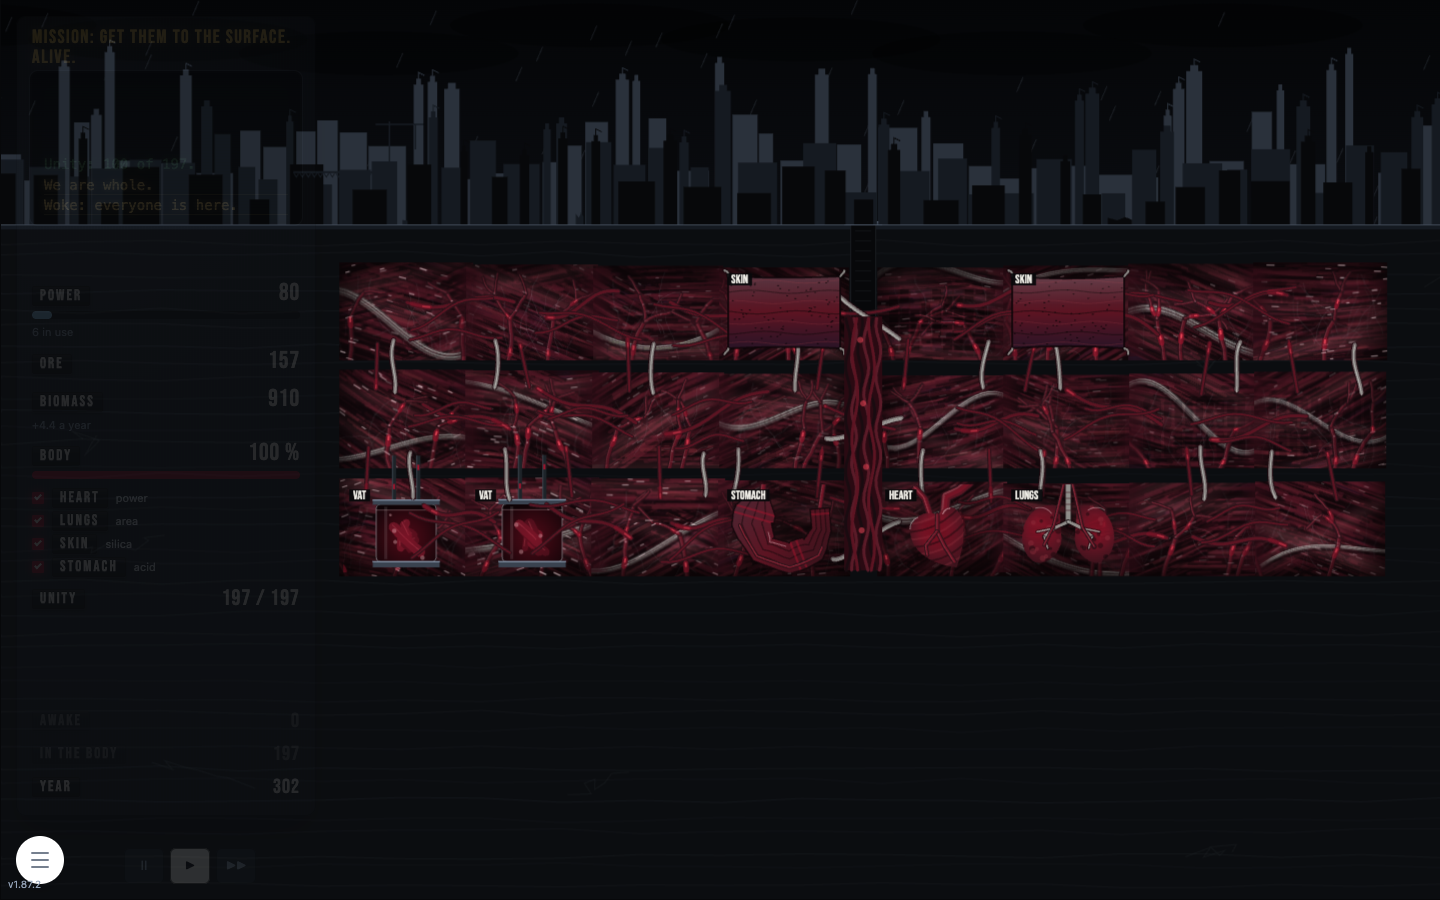
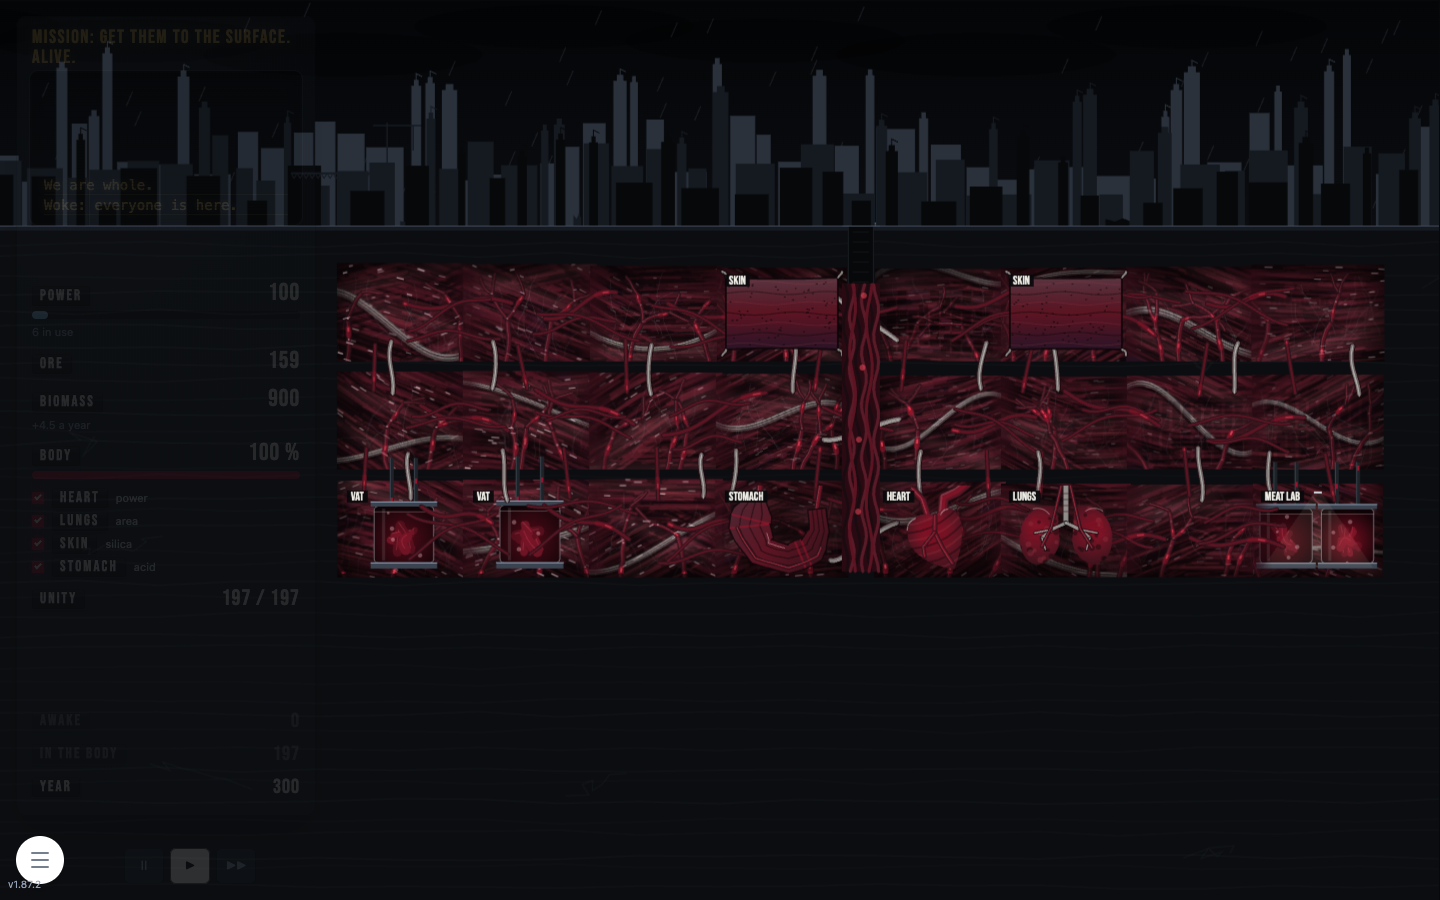
v1.87.3: chapter IV, the vault: the burst
The rise's burst is a mass: a dome of the rooms' muscle fibre and vessels pushing out and swelling to fill the sky, folds, wet highlights, branching whipping vessels with the pulse, the heartbeat ring, crust and towers riding and sliding off, dust (made once per rise). iv-vault-night has a Meat Lab (level 1); iv-vault-flesh keeps it.

diff --git a/src/phase4v/view.js b/src/phase4v/view.js
@@ -1694,6 +1694,118 @@ export function createVaultView(canvas, opts = {}) {
         }
     }
 
+    // ---------------------------------------------------------------- the burst (v1.87.3)
+    /**
+     * What the burst is made of, made once when the rise starts: a big tissue (the rooms' fibre and
+     * vessels, scaled up), branching vessel trees from the root outwards, the slabs and tower pieces that
+     * ride on it, the dust. Per frame only transforms, clips and the moving pulse.
+     */
+    let burstKit = null;
+    function makeBurst() {
+        const tw = 260, th = 150;
+        const tissue = makeTissue(tw, th, 91.7, 'lrud');
+        const R = rng(7.7);
+        const trees = [];
+        // branching vessels from the root, outward and up, in unit space (radius 1)
+        function grow(x, y, a, len, wid, depth, out) {
+            const pts = [[x, y]];
+            let px = x, py = y;
+            for (let st = 0; st < 5; st++) { a += (R() - 0.5) * 0.5; px += Math.cos(a) * len / 5; py += Math.sin(a) * len / 5; pts.push([px, py]); }
+            out.push({ pts, wid, phase: R() * 6, delay: R() });
+            if (depth > 0) for (let b = 0; b < 2; b++) grow(px, py, a + (b ? 1 : -1) * (0.35 + R() * 0.4), len * 0.62, wid * 0.62, depth - 1, out);
+        }
+        for (let v = 0; v < 7; v++) grow(0, 0, -Math.PI + (v + 0.5) * Math.PI / 7 + (R() - 0.5) * 0.2, 0.55, 9, 3, trees);
+        const riders = [];
+        for (let q = 0; q < 14; q++) riders.push({ a: -Math.PI / 2 + (R() - 0.5) * 1.6, slab: q % 3 !== 0, w: 10 + R() * 26, h: q % 3 === 0 ? 24 + R() * 40 : 6 + R() * 8, spin: (R() - 0.5) * 2, slide: 0.4 + R() * 0.8 });
+        const dust = [];
+        for (let q = 0; q < 40; q++) dust.push({ a: -Math.PI + R() * Math.PI, sp: 0.3 + R() * 0.9, r: 6 + R() * 22 });
+        return { tissue, trees, riders, dust };
+    }
+    /** m 0..1: the mass from first breaking the crust to filling the sky. */
+    function burst(s, t, m, cx, gy, hb) {
+        if (!burstKit) burstKit = makeBurst();
+        const K = burstKit;
+        // it pushes out slowly, then swells until it fills the top of the screen
+        const ease = Math.pow(m, 1.35);
+        const Rx = 50 + ease * W * 0.82 * (1 + 0.025 * hb);
+        const Ry = 30 + ease * (gy + 80) * (1 + 0.03 * hb);
+        const dome = () => { ctx.beginPath(); ctx.ellipse(cx, gy + 4, Rx, Ry, 0, Math.PI, 0); ctx.closePath(); };
+        // dust thrown up behind it
+        for (const d of K.dust) {
+            const dist = (0.6 + d.sp * m) * Rx * 0.9;
+            ctx.fillStyle = rgba(VT.mist, 0.12 * (1 - m * 0.7));
+            ctx.beginPath(); ctx.arc(cx + Math.cos(d.a) * dist, gy + Math.sin(d.a) * dist * 0.5 - m * 30, d.r * (0.6 + m), 0, Math.PI * 2); ctx.fill();
+        }
+        // the mass: layered muscle, the rooms' own tissue scaled up, inside the dome
+        ctx.save();
+        dome(); ctx.clip();
+        // tiled at the rooms' scale (a little larger), not stretched: the fibre keeps its grain
+        const tw = K.tissue.W2 * 1.35, th = K.tissue.H2 * 1.35;
+        let row = 0;
+        for (let ty = gy + 8 - th; ty > gy - Ry - th; ty -= th - 2, row++) {
+            // rows offset by half a tile, so no seam runs straight up the mass
+            for (let tx = cx - Math.ceil(Rx / tw) * tw - (row % 2) * tw / 2; tx < cx + Rx; tx += tw - 2) {
+                ctx.drawImage(K.tissue.base, tx, ty, tw, th);
+                ctx.globalAlpha = 0.55 + 0.45 * hb;
+                ctx.drawImage(K.tissue.glint, tx, ty, tw, th);
+                ctx.globalAlpha = 1;
+            }
+        }
+        // layered muscle: folds where one sheet lies over the next, following the dome
+        for (const f of [0.82, 0.6, 0.38]) {
+            ctx.strokeStyle = 'rgba(8,2,4,0.55)'; ctx.lineWidth = 6;
+            ctx.beginPath(); ctx.ellipse(cx, gy + 4, Rx * f, Ry * f, 0, Math.PI * 1.04, Math.PI * 1.96); ctx.stroke();
+            ctx.strokeStyle = 'rgba(255,170,175,0.14)'; ctx.lineWidth = 2;
+            ctx.beginPath(); ctx.ellipse(cx, gy + 1, Rx * f, Ry * f, 0, Math.PI * 1.06, Math.PI * 1.94); ctx.stroke();
+        }
+        // shading: dark at the rim, the heartbeat as a ring of light running out from the root
+        const sh = ctx.createRadialGradient(cx, gy, Ry * 0.2, cx, gy, Math.max(Rx, Ry));
+        sh.addColorStop(0, 'rgba(0,0,0,0)'); sh.addColorStop(0.8, 'rgba(10,2,5,0.35)'); sh.addColorStop(1, 'rgba(6,1,3,0.8)');
+        ctx.fillStyle = sh; ctx.fillRect(cx - Rx, gy - Ry, Rx * 2, Ry + 8);
+        const ph = (t % BEAT) / BEAT;
+        const ringR = ph * Math.max(Rx, Ry) * 1.1;
+        const ring = ctx.createRadialGradient(cx, gy, Math.max(1, ringR - 40), cx, gy, ringR + 10);
+        ring.addColorStop(0, rgba(VT.pulse, 0)); ring.addColorStop(0.7, rgba(VT.pulse, 0.35 * (1 - ph))); ring.addColorStop(1, rgba(VT.pulse, 0));
+        ctx.fillStyle = ring; ctx.fillRect(cx - Rx, gy - Ry, Rx * 2, Ry + 8);
+        // the vessels, thick and branching, whipping, red light running root to tip
+        ctx.lineCap = 'round'; ctx.lineJoin = 'round';
+        for (const v of K.trees) {
+            const whip = Math.sin(t * 2.6 + v.phase) * 0.06;
+            const P = v.pts.map(([px, py], n) => [cx + (px + whip * n * py) * Rx * 1.05, gy + 4 + (py - whip * n * px) * Ry * 1.05]);
+            const path = () => { ctx.beginPath(); P.forEach((p, n) => (n ? ctx.lineTo(p[0], p[1]) : ctx.moveTo(p[0], p[1]))); };
+            const wid = v.wid * (0.6 + 0.6 * ease);
+            path(); ctx.strokeStyle = VT.fArtery; ctx.lineWidth = wid + 3; ctx.stroke();
+            path(); ctx.strokeStyle = VT.fCore; ctx.lineWidth = wid; ctx.stroke();
+            ctx.save(); ctx.translate(-wid * 0.25, -wid * 0.3); path(); ctx.strokeStyle = 'rgba(255,170,175,0.22)'; ctx.lineWidth = Math.max(1, wid * 0.25); ctx.stroke(); ctx.restore();
+            const p = ((t / BEAT) + v.delay * 0.4) % 1;
+            const f = p * (P.length - 1), i0 = Math.floor(f), u = f - i0, a = P[i0], b = P[Math.min(P.length - 1, i0 + 1)];
+            ctx.fillStyle = `rgba(255,74,92,${0.55 + 0.45 * hb})`;
+            ctx.beginPath(); ctx.arc(a[0] + (b[0] - a[0]) * u, a[1] + (b[1] - a[1]) * u, wid * 0.7, 0, Math.PI * 2); ctx.fill();
+        }
+        // wet highlights over the top
+        ctx.strokeStyle = `rgba(255,190,195,${0.16 + 0.1 * hb})`; ctx.lineWidth = 8;
+        ctx.beginPath(); ctx.ellipse(cx - Rx * 0.15, gy - Ry * 0.55, Rx * 0.45, Ry * 0.22, -0.15, Math.PI * 1.08, Math.PI * 1.62); ctx.stroke();
+        ctx.lineWidth = 3;
+        ctx.beginPath(); ctx.ellipse(cx + Rx * 0.3, gy - Ry * 0.4, Rx * 0.2, Ry * 0.12, 0.2, Math.PI * 1.1, Math.PI * 1.6); ctx.stroke();
+        ctx.restore();
+        // the rim of the mass, wet
+        dome(); ctx.strokeStyle = rgba(VT.pulse, 0.45 + 0.35 * hb); ctx.lineWidth = 2.5; ctx.stroke();
+        // torn crust and towers riding on its back, sliding off down the sides
+        for (const r of K.riders) {
+            const a = r.a + (r.a < -Math.PI / 2 ? -1 : 1) * m * m * r.slide;
+            const on = a > -Math.PI && a < 0;
+            const px = cx + Math.cos(a) * Rx, py = gy + 4 + Math.sin(a) * Ry;
+            const fall = on ? 0 : (Math.abs(a + Math.PI / 2) - Math.PI / 2) * 200;
+            ctx.save(); ctx.translate(px, py + fall); ctx.rotate(a + Math.PI / 2 + r.spin * m);
+            ctx.fillStyle = r.slab ? '#1a1f27' : CITY_COLS[1];
+            ctx.fillRect(-r.w / 2, -r.h, r.w, r.h);
+            ctx.fillStyle = rgba(VT.mist, 0.15); ctx.fillRect(-r.w / 2, -r.h, r.w, 1.5);
+            if (!r.slab) { ctx.fillStyle = rgba(VT.lamp, 0.25); for (let wy = -r.h + 4; wy < -3; wy += 6) ctx.fillRect(-r.w / 4, wy, 2, 2); }
+            ctx.restore();
+        }
+        ctx.lineWidth = 1;
+    }
+
     /**
      * H6: the rise, meatier, over riseAnim.ms (about 7 s): the body climbs the shaft as fibre and vessels
      * (0 to 0.3), the crust bulges and cracks with light between the cracks (0.3 to 0.45), rock and the
@@ -1754,41 +1866,7 @@ export function createVaultView(canvas, opts = {}) {
                 ctx.restore();
             }
         }
-        if (k > 0.6) {
-            // 4. the surge: wet red mass with whipping vessels, the heartbeat through all of it
-            const m = Math.min(1, (k - 0.6) / 0.4);
-            const R = 40 + m * Math.max(W, geo.ground * 4) * (0.9 + 0.04 * hb);
-            const g = ctx.createRadialGradient(cx, gy, 10, cx, gy, R);
-            g.addColorStop(0, `rgba(${90 + 60 * hb},18,32,1)`); g.addColorStop(0.55, 'rgba(46,9,17,0.98)'); g.addColorStop(1, 'rgba(20,4,8,0)');
-            ctx.fillStyle = g;
-            ctx.beginPath(); ctx.ellipse(cx, gy, R, R * 0.6 + m * geo.ground, 0, Math.PI, 0); ctx.fill();
-            // wet sheen
-            ctx.strokeStyle = 'rgba(255,170,175,0.18)'; ctx.lineWidth = 6;
-            ctx.beginPath(); ctx.ellipse(cx - R * 0.12, gy - R * 0.25, R * 0.5, R * 0.18, -0.2, Math.PI * 1.1, Math.PI * 1.7); ctx.stroke();
-            // vessels whipping out from the mass
-            for (let v = 0; v < 12; v++) {
-                const ang = -Math.PI + (v + 0.5) * Math.PI / 12;
-                const whip = Math.sin(t * 3 + v * 1.7) * 0.25;
-                ctx.strokeStyle = VT.fArtery; ctx.lineWidth = 6;
-                const pts = [];
-                for (let st = 0; st <= 8; st++) { const rr = R * 1.02 * st / 8; pts.push([cx + Math.cos(ang + whip * st / 8) * rr, gy + Math.sin(ang + whip * st / 8) * rr * 0.7]); }
-                ctx.beginPath(); pts.forEach((p, n) => (n ? ctx.lineTo(p[0], p[1]) : ctx.moveTo(p[0], p[1]))); ctx.stroke();
-                ctx.strokeStyle = rgba(VT.pulse, 0.6 + 0.4 * hb); ctx.lineWidth = 2.5; ctx.stroke();
-                const p = ((t / BEAT) + v * 0.13) % 1, q = pts[Math.floor(p * 8)];
-                ctx.fillStyle = `rgba(255,74,92,${0.7 + 0.3 * hb})`; ctx.beginPath(); ctx.arc(q[0], q[1], 3.5, 0, Math.PI * 2); ctx.fill();
-            }
-            // 5. what is left of the city rides on its back
-            if (k > 0.8) {
-                const r = (k - 0.8) / 0.2;
-                const back = gy - (R * 0.6 + m * geo.ground) * 0.92;
-                for (let q = 0; q < 7; q++) {
-                    const bx = cx + (q - 3) * 34 + Math.sin(t + q) * 3, bh = 18 + hash(q + 11) * 40;
-                    ctx.save(); ctx.translate(bx, back + 6 + Math.abs(q - 3) * 6); ctx.rotate((q - 3) * 0.12 + Math.sin(t * 0.8 + q) * 0.03);
-                    ctx.fillStyle = `rgba(21,26,33,${r})`; ctx.fillRect(-7, -bh, 14, bh);
-                    ctx.restore();
-                }
-            }
-        }
+        if (k > 0.55) burst(s, t, Math.min(1, (k - 0.55) / 0.45), cx, gy, hb);
         ctx.lineWidth = 1;
         // hold the risen body a moment, then the card
         if (t * 1000 - riseAnim.t0 >= riseAnim.ms + RISE_HOLD_MS && !riseAnim.done) { riseAnim.done = true; riseAnim.resolve?.(); }
@@ -2058,7 +2136,7 @@ export function createVaultView(canvas, opts = {}) {
         failAt: (s, x, y) => failAt(s, x, y),
         setPointer: (x, y) => { pointer.x = x; pointer.y = y; },
         startDescent: (ms) => { descent = { t0: performance.now(), ms }; },
-        rise: (ms = 7200) => new Promise((resolve) => { riseAnim = { t0: performance.now(), ms, resolve }; }),
+        rise: (ms = 7200) => new Promise((resolve) => { burstKit = null; riseAnim = { t0: performance.now(), ms, resolve }; }),
         /** True while something on screen moves on its own (the descent, the rise, effects). */
         get busy() { return !!descent || !!riseAnim || effects.length > 0; },
         get geo() { return geo; },

diff --git a/src/phase4v/vault.test.js b/src/phase4v/vault.test.js
@@ -262,13 +262,14 @@ describe('after the second human test', () => {
     });
     test('a full floor pushes into the one above by itself, and gives one more room at once', () => {
         const s = cp('iv-vault-flesh');
-        s.rooms.forEach((r, i) => { if (V.levelOf(i) === 2 && i !== V.slotIndex(2, 7)) r.flesh = 1; });
+        // (2, 7) is the checkpoint's meat lab: the last room taken is (2, 6)
+        s.rooms.forEach((r, i) => { if (V.levelOf(i) === 2 && i !== V.slotIndex(2, 6)) r.flesh = 1; });
         const slots = V.growSlots(s);
         s.bio = 1000;
-        V.growInto(s, V.slotIndex(2, 7));
+        V.growInto(s, V.slotIndex(2, 6));
         for (let t = 0; t < 30; t += 0.25) V.advance(s, 0.25, 2);
         expect(V.growSlots(s)).toBe(slots + 1);
-        const above = s.rooms[V.slotIndex(1, 7)];
+        const above = s.rooms[V.slotIndex(1, 6)];
         expect(above.flesh === 1 || (above.job && above.job.op === 'grow')).toBe(true);
     });
 });

diff --git a/src/phase4v/story.test.js b/src/phase4v/story.test.js
@@ -169,13 +169,14 @@ describe('the night: the goal and the organs', () => {
     });
     test('a meat lab built in the palace is the one the night wakes', () => {
         const s = cp('iv-vault-night');
-        const i = V.slotIndex(2, 3);
-        put(s, i, 'meatlab');
+        const i = s.rooms.findIndex((r) => r.kind === 'meatlab');
+        expect(i).toBeGreaterThanOrEqual(0);
         s.fallen = ['Mr Hale'];
         V.reclaim(s);
         expect(V.isVatRoom(s.rooms[i])).toBe(true);
         expect(s.rooms.filter((r) => r.kind === 'meatlab')).toHaveLength(1);
     });
+
     test('GROW INTO is a choice of organ; only what can be paid and is allowed lights', () => {
         const s = cp('iv-vault-flesh');
         const i = V.slotIndex(2, 3);

diff --git a/src/phase4v/tutorial.test.js b/src/phase4v/tutorial.test.js
@@ -192,8 +192,9 @@ describe('Ola after v1.87.1 (H)', () => {
     });
     test('H1: the meat lab feeds 100 pods a level; more sleepers than that is underfed', () => {
         const s = VAULT_CHECKPOINTS['iv-vault-night']();
-        const lab = V.slotIndex(2, 3);
-        Object.assign(s.rooms[lab], { kind: 'meatlab', lvl: 1, job: null, flesh: 0 });
+        // the checkpoint has its meat lab (level 1), so the night never says it cannot feed them with no lab there
+        const lab = s.rooms.findIndex((r) => r.kind === 'meatlab');
+        expect(lab).toBeGreaterThanOrEqual(0);
         expect(V.podFeed(s)).toBe(100);
         expect(V.underfed(s)).toBe(true);
         s.rooms[lab].lvl = 3;

diff --git a/index.html b/index.html
@@ -697,7 +697,7 @@
 
     <!-- War room: the advisor's feed during chapter III (icons over text everywhere else;
          Ola asked for this one place where words explain what is happening) -->
-    <div id="version-info" class="fixed bottom-2 left-2 text-[10px] text-slate-400 select-none">v1.87.2</div>
+    <div id="version-info" class="fixed bottom-2 left-2 text-[10px] text-slate-400 select-none">v1.87.3</div>
     <div id="tooltip"></div>
 
     <div id="chapter-card" class="chapter-card" aria-hidden="true">

diff --git a/src/phase4v/checkpoints.js b/src/phase4v/checkpoints.js
@@ -72,6 +72,9 @@ export const VAULT_CHECKPOINTS = {
         s.ore = 300;
         s.turnDay = TURN_DAY; s.hydroSaid = true;
         had(s, 'turn', 'cold');
+        // the meat lab that feeds the pods (level 1: it cannot feed them all, as the night will say)
+        put(s, slotIndex(2, 7), 'meatlab', { born: 60 });
+        s.meatOpen = true;
         // the night begins here: its steps (pass 3, section E) are ahead
         return s;
     }),

diff --git a/src/version.js b/src/version.js
@@ -1,1 +1,1 @@
-export const VERSION = 'v1.87.2';
+export const VERSION = 'v1.87.3';

diff --git a/CHANGELOG.md b/CHANGELOG.md
@@ -1,5 +1,10 @@
 # Changelog
 
+## v1.87.3 - 2026-10-06 (chapter IV, the vault: the burst)
+
+- **The burst is a mass.** A dome of the rooms' own muscle fibre and vessels (tiled at their scale, not stretched) pushes out of the crust and swells until it fills the top of the screen, with folds where one sheet of muscle lies over the next, wet highlights, thick branching vessels that whip with red light running along them, a ring of the heartbeat moving out through the whole of it, torn crust and tower pieces riding on its back and sliding off, and dust. The kit (tissue, vessel trees, riders) is made once when the rise starts; per frame only transforms and the pulse.
+- **Checkpoints with a meat lab.** iv-vault-night has a Meat Lab (level 1) on level 3, so "The meat lab cannot feed them all." never shows with no lab on the map; iv-vault-flesh keeps it.
+
 ## v1.87.2 - 2026-10-06 (chapter IV, the vault: tending the cold, the mission, a whole body)
 
 After Ola played v1.87.1 ("KUL! SNYGGT! Love it!"), section H of docs/superpowers/specs/2026-10-05-deep-vault-pass3.md:
